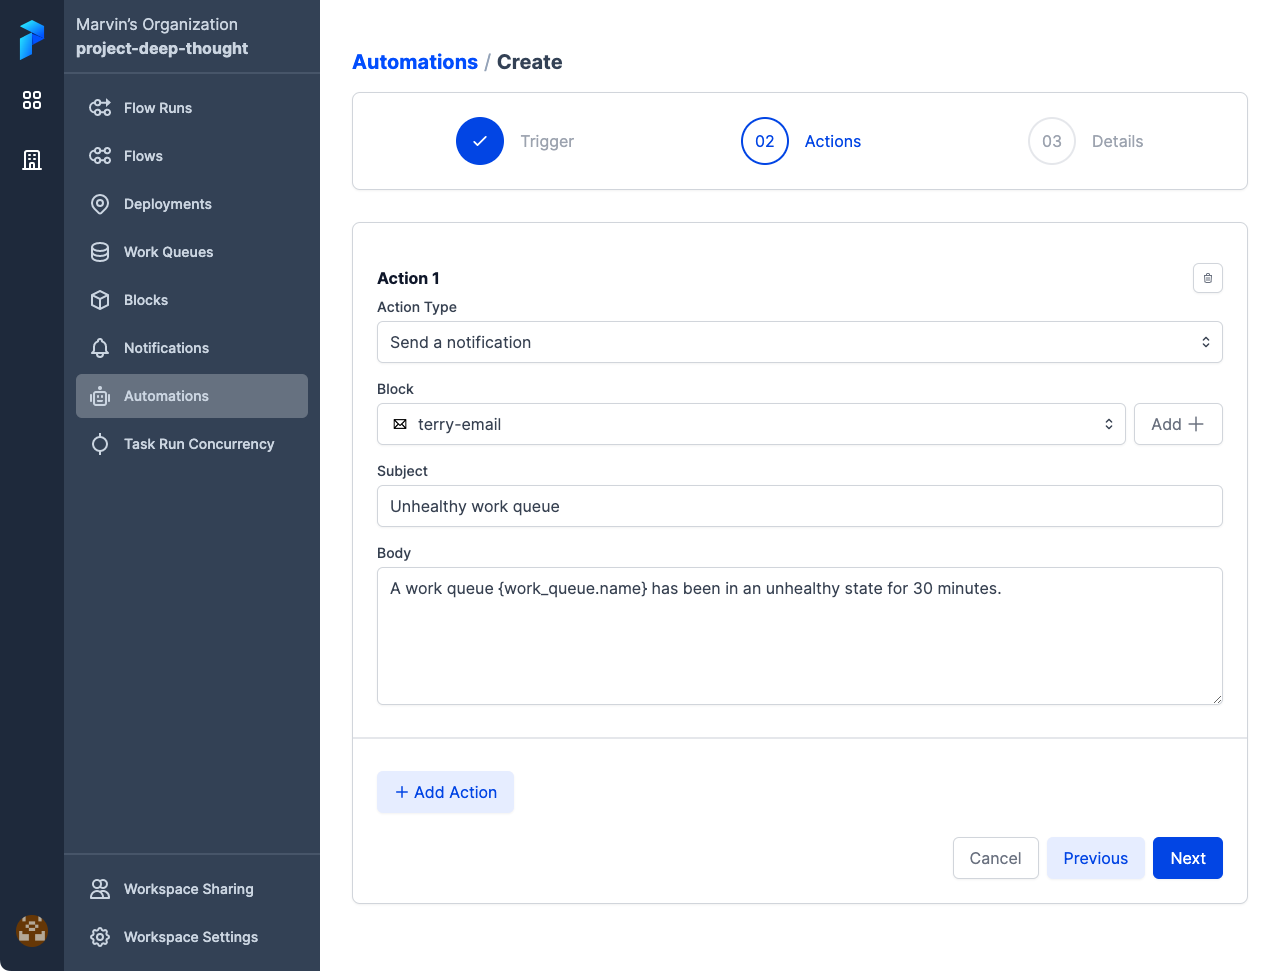
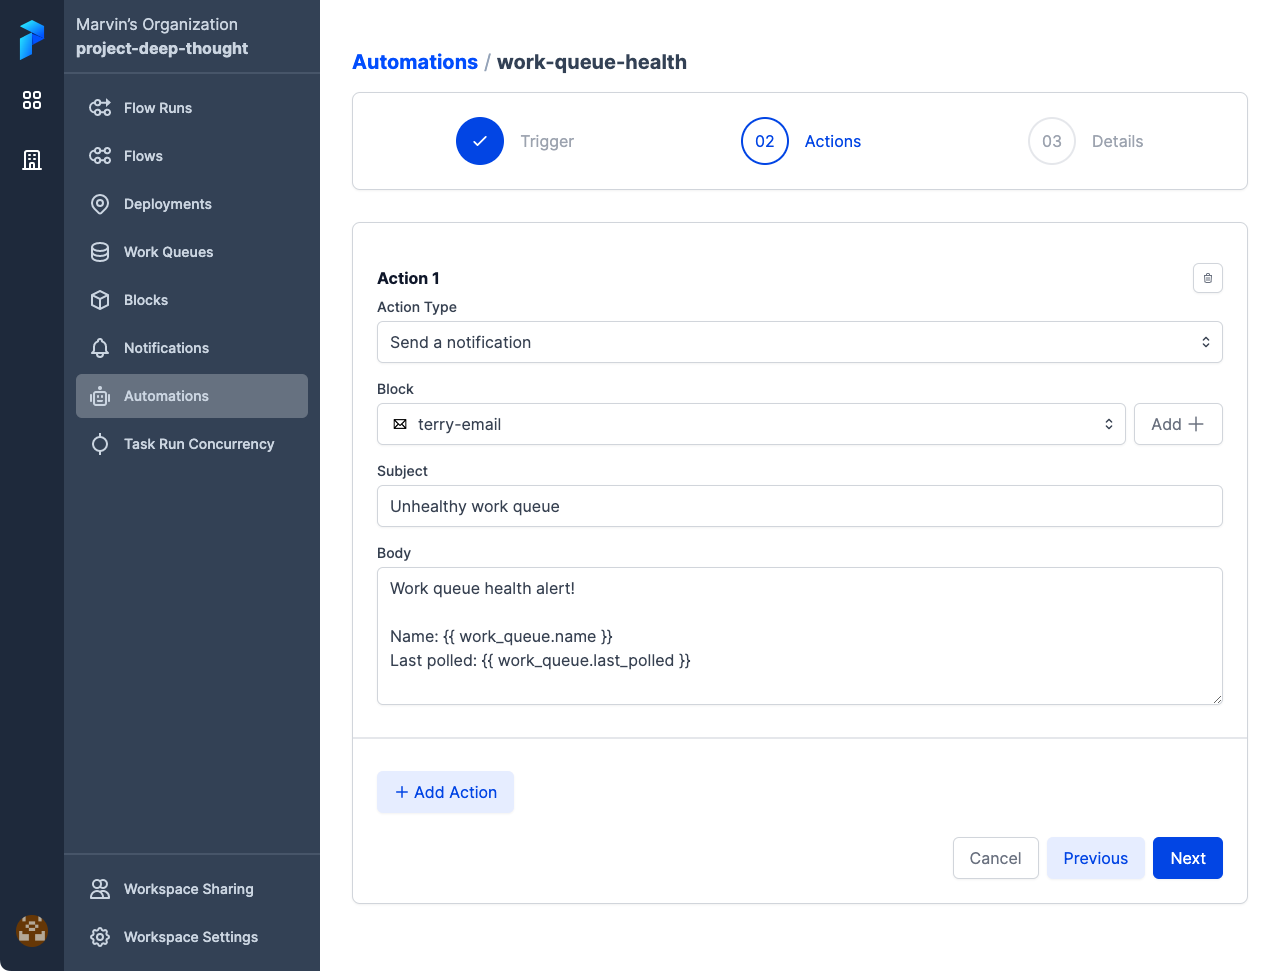
additional examples

Changed region(s): [[0.3125, 0.587, 0.7812, 0.6179], [0.3125, 0.6488, 0.5312, 0.7106], [0.375, 0.0618, 0.5312, 0.0927]]

diff --git a/docs/ui/automations.md b/docs/ui/automations.md
@@ -52,6 +52,7 @@ Triggers specify the conditions under which your action should be performed. Tri
 
 - Flow run state change
 - Work queue health
+- [Custom event](#automations-api) triggers
 
 Importantly, triggers can be configured not only in reaction to events, but also proactively: to trigger in the absence of an event you expect to see.
 
@@ -124,7 +125,7 @@ You can access properties of the underlying flow run objects including:
 - [deployment](/api-ref/orion/schemas/core/#prefect.orion.schemas.core.Deployment)
 - [work_queue](/api-ref/orion/schemas/core/#prefect.orion.schemas.core.WorkQueue)
 
-In addition, each object includes an `id` UUID and `created` and `updated` timestamps. 
+In addition to its native properites, each object includes an `id` along with `created` and `updated` timestamps. 
 
 The `flow_run|ui_url` token returns the URL for viewing the flow run in Prefect Cloud.
 
@@ -143,7 +144,7 @@ The resulting Slack webhook notification would look something like this:
 
 ![Configuring notifications for an automation in Prefect Cloud.](/img/ui/templated-notification.png)
 
-You could include flow and deployment details.
+You could include `flow` and `deployment` properties.
 
 ```
 Flow run {{ flow_run.name }} for flow {{ flow.name }}
@@ -156,7 +157,7 @@ Deployment version: {{ deployment.version }}
 Deployment parameters: {{ deployment.parameters }}
 ```
 
-An automation reporting on work queue health might include notifications using work queue details.
+An automation that reports on work queue health might include notifications using `work_queue` properties.
 
 ```
 Work queue health alert!
@@ -164,6 +165,28 @@ Work queue health alert!
 Name: {{ work_queue.name }}
 Last polled: {{ work_queue.last_polled }}
 ```
+
+In addition to those shortcuts for flows, deployments, and work queues, you have access to the automation and the event that triggered the automation. See the [Automations API](#automations-api) for additional details.
+
+```
+Automation: {{ automation.name }}
+Description: {{ automation.description }}
+
+Event: {{ event.id }}
+Resource:
+{% for label, value in event.resource %}
+{{ label }}: {{ value }}
+{% endfor %}
+Related Resources:
+{% for related in event.related %}
+    Role: {{ related.role }}
+    {% for label, value in event.resource %}
+    {{ label }}: {{ value }}
+    {% endfor %}
+{% endfor %}
+```
+
+Note that this example also illustrates the ability to use Jinja features such as iterator and for loop [control structures](https://jinja.palletsprojects.com/en/3.1.x/templates/#list-of-control-structures) when templating notifications.
 
 ## Automations API 
 
